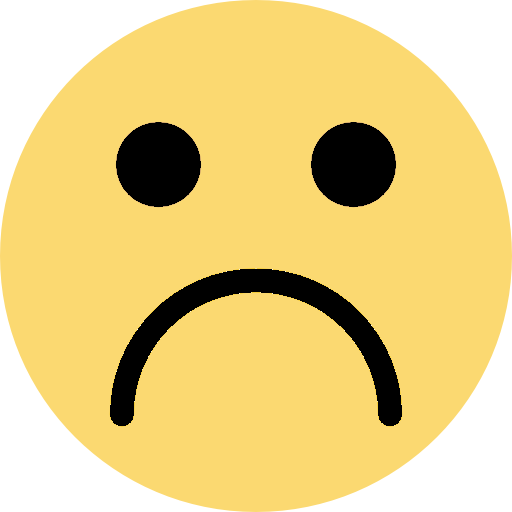
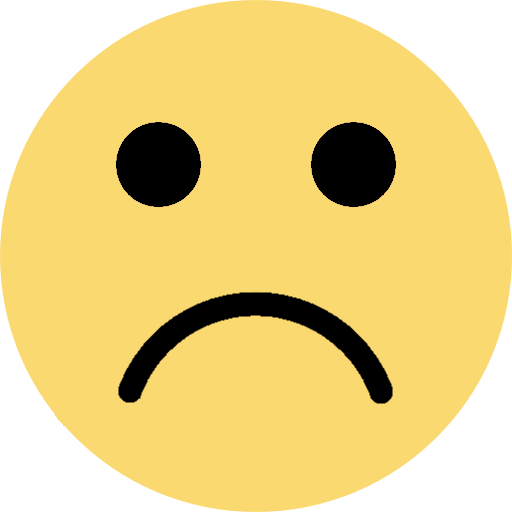
- more apparent dropdown selection for graph of caregiver's pages - smaller lips of emotion faces for resident's answer options

Changed region(s): [[0.1875, 0.5, 0.8125, 0.8438]]

diff --git a/assets/css/main.css b/assets/css/main.css
@@ -122,3 +122,7 @@ video.webcam {
     -webkit-transform: scaleX(-1);
     transform: scaleX(-1);
 }
+
+.form-group .btn, .input-group-btn .btn{
+    border: 1px solid #BDBDBD !important;
+}

diff --git a/application/views/caregiver/caregiver_statistics.php b/application/views/caregiver/caregiver_statistics.php
@@ -1,6 +1,8 @@
 <head>
     <script src="https://cdnjs.cloudflare.com/ajax/libs/noUiSlider/9.0.0/nouislider.min.js"></script>
     <script src="https://cdnjs.cloudflare.com/ajax/libs/noUiSlider/9.0.0/nouislider.min.css"></script>
+    <link rel="stylesheet" href="https://cdnjs.cloudflare.com/ajax/libs/bootstrap-select/1.12.1/css/bootstrap-select.min.css">
+    <script src="https://cdnjs.cloudflare.com/ajax/libs/bootstrap-select/1.12.1/js/bootstrap-select.min.js"></script>
     <script type="text/javascript">
         var base_url = "<?php Print(base_url()); ?>"; 
         var caregiverID = "<?php Print($caregiverID); ?>"; 
@@ -51,7 +53,7 @@
                                         <div class="form-group">
                                             <label class="col-md-2">Floor</label>
                                             <div class="col-md-10">
-                                                    <select class="form-control" id="floor" onchange="clickFilter(caregiverID);"> <!-- multiple="multiple" expands the opts -->
+                                                    <select class="selectpicker form-control" id="floor" onchange="clickFilter(caregiverID);"> <!-- multiple="multiple" expands the opts -->
                                                         <?php foreach ($floors as $floor) { ?> 
                                                             <option value= <?php
                                                             $floor->floor_number;
@@ -128,7 +130,7 @@
         <!--div class="col-md-6">
             <div class="panel container-fluid">
                 <form class="form-group" method="POST" id="chart1_form" name="chart1Form">
-                    <select class="form-control" name="residents" id="residents_select" onchange="chart1function()" onload="chart1function()">
+                    <select class="selectpicker form-control" name="residents" id="residents_select" onchange="chart1function()" onload="chart1function()">
                         <?php foreach ($residents as $resident) { ?>   
                             <option value=<?= json_encode($resident->id); ?> ><?= $resident->first_name; ?></option>
                         <?php } ?>                    
@@ -142,7 +144,7 @@
         <div class="col-md-6">
             <div class="panel container-fluid">
                 <form class="form-group" method="POST" id="chart2_form" name="chart2Form">
-                    <select class="form-control" name="categories" id="categories_select" onchange="chart2function()" onload="chart2function()">
+                    <select class="selectpicker form-control" name="categories" id="categories_select" onchange="chart2function()" onload="chart2function()">
                         <?php foreach ($categories as $category) { ?>   
                             <option value=<?= json_encode($category->category_set); ?> ><?php echo $category->category; ?></option>
                         <?php } ?>           

diff --git a/application/views/caregiver/caregiver_resident.php b/application/views/caregiver/caregiver_resident.php
@@ -1,5 +1,7 @@
 <script src="<?= base_url() ?>assets/js/QR-code/qrcode.min.js" type="text/javascript"></script>
 <script src="<?= base_url() ?>assets/js/QR-code/download.js" type="text/javascript"></script>
+<link rel="stylesheet" href="https://cdnjs.cloudflare.com/ajax/libs/bootstrap-select/1.12.1/css/bootstrap-select.min.css">
+<script src="https://cdnjs.cloudflare.com/ajax/libs/bootstrap-select/1.12.1/js/bootstrap-select.min.js"></script>
 
 <div class="container-fluid">
 
@@ -50,7 +52,7 @@
         <div  class="col-md-6">
             <div class="panel container-fluid">
                 <form class="form-group" method="POST" id="chart2_form" name="chart2Form">
-                    <select class="form-control" name="categories" id="categories_select" onchange="chart2function()" onload="chart2function()">
+                    <select class="selectpicker form-control" name="categories" id="categories_select" onchange="chart2function()" onload="chart2function()">
                         <?php foreach ($categories as $category) { ?>   
                             <option value=<?= json_encode($category->category_set); ?> ><?php echo $category->category; ?></option>
                         <?php } ?>           
